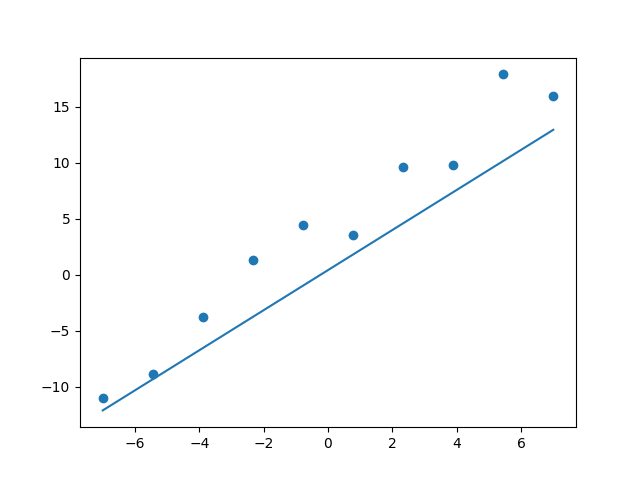
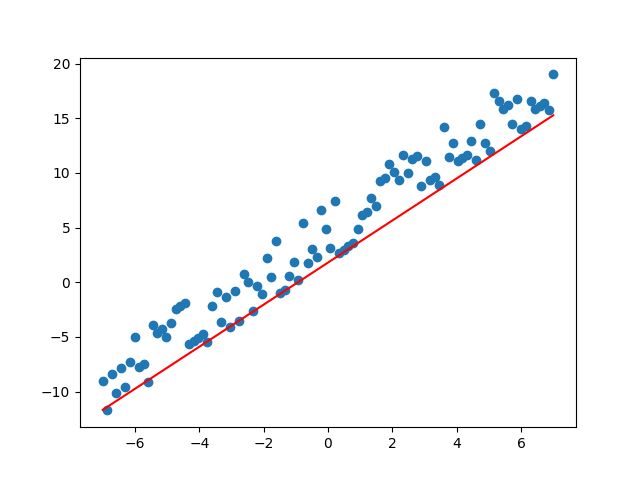
:penguin: Add dataloader and datasets

diff --git a/test.py b/test.py
@@ -9,6 +9,7 @@ import numpy as _np
 import autodiff
 from autodiff.diff import value_and_grad, value, grad
 import autodiff.numpy_grad.wrapper as np
+from utils.datasets import Dataset, DataLoader
 
 warnings.filterwarnings("ignore", category=matplotlib.cbook.mplDeprecation)
 warnings.filterwarnings("ignore", category=RuntimeWarning)
@@ -68,25 +69,26 @@ def power_demo():
     plt.show()
 
 def train_model():
-    data_size = 10
+    data_size = 100
     X = np.linspace(-7, 7, data_size)
     noise = _np.random.randint(-3, 3, (data_size))
     # noise = _np.random.random((data_size))
     Y = 2 * X + 5 + noise
 
+    dataset = Dataset(X, Y)
+    dataloader = DataLoader(dataset)
 
     lr = 0.001
-    epoch = 10
+    epoch = 300
     W = _np.random.random()
     b = _np.random.random()
     print(W, b)
     for _ in range(epoch):
-        for x, y in zip(X, Y):
-            predicted_y, grad_value= value_and_grad(model)(W=W, b=b, feed_dict={'x': x})
-            loss_grad = grad(mse, 'predicted_y')(feed_dict={'predicted_y': predicted_y, 'true_y': y})
-            # print(predicted_y, y)
-            W -= lr * grad_value['W'] * loss_grad
-            b -= lr * grad_value['b'] * loss_grad
+        x, y = dataloader.next_batch(16)
+        predicted_y, grad_value= value_and_grad(model)(W=W, b=b, feed_dict={'x': x})
+        loss_grad = grad(mse, 'predicted_y')(feed_dict={'predicted_y': predicted_y, 'true_y': y})
+        W -= lr * _np.average(grad_value['W'] * loss_grad)
+        b -= lr * _np.average(grad_value['b'] * loss_grad)
     
     print(W, b)
     predict = value(model)(W=W, b=b, feed_dict={'x': X})
@@ -95,7 +97,7 @@ def train_model():
         X, Y,
     )
     plt.plot(
-        X, predict
+        X, predict, 'r'
     )
     # plt.axis('off')
     plt.savefig('result.png')

diff --git a/utils/datasets.py b/utils/datasets.py
@@ -1,0 +1,21 @@
+import random
+
+class Dataset:
+    def __init__(self, X, Y):
+        self.X = X
+        self.Y = Y
+    
+    def __len__(self):
+        return len(self.X)
+    
+    def __getitem__(self, idx):
+        return self.X[idx], self.Y[idx]
+
+class DataLoader:
+    def __init__(self, dataset: Dataset):
+        self.dataset = dataset
+
+    def next_batch(self, num):
+        candidate = list(range(len(self.dataset)))
+        sample_index = random.sample(candidate, num)
+        return self.dataset[sample_index]
